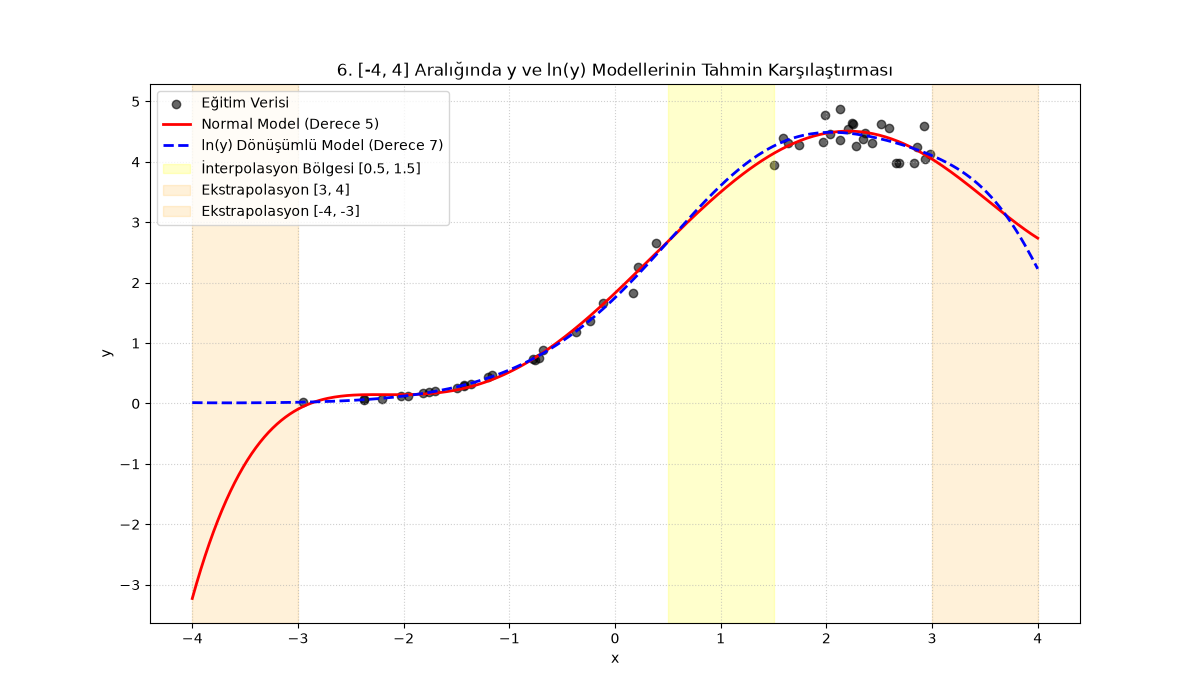
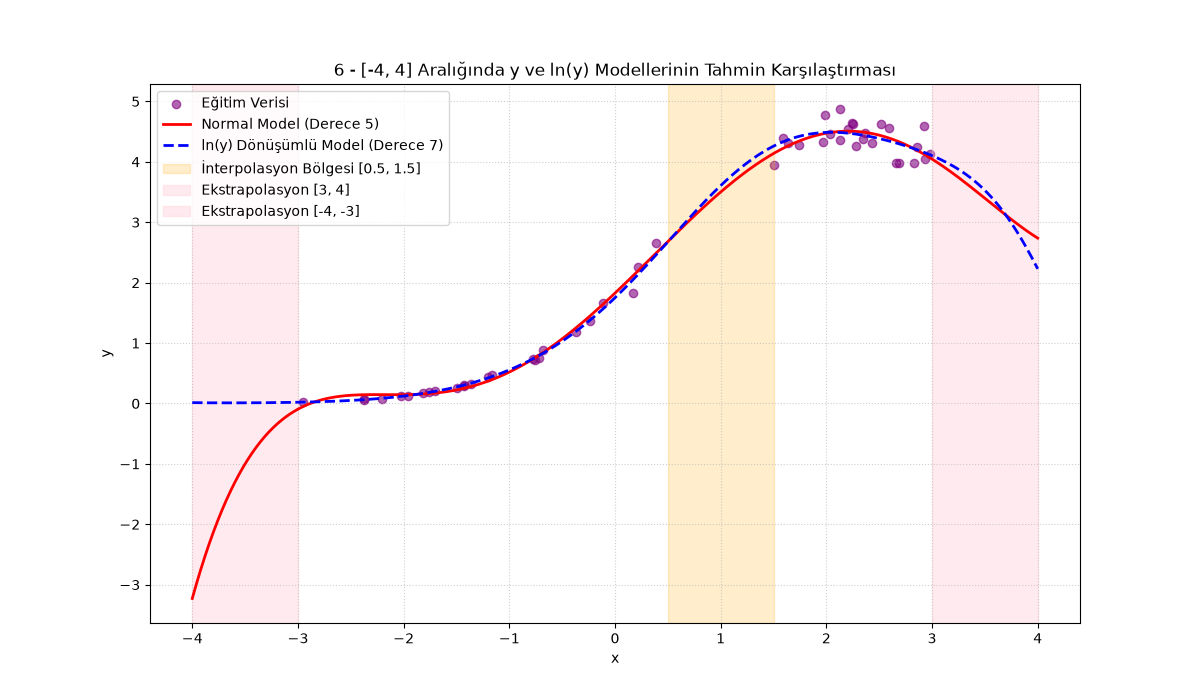
till 8th question

diff --git a/optimization.py b/optimization.py
@@ -103,48 +103,48 @@ plt.show()
 
 #5.soru
 log_y_train = np.log(y_train)
-log_train_mses = []
-log_test_mses = []
-log_models_beta = {}
+log_train_mse = []
+log_test_mse = []
+log_coef = {}
 
 for deg in degrees:
   X_train = create_design_matrix(x_train, deg)
   X_test = create_design_matrix(x_test, deg)
 
   beta_log = np.linalg.inv(X_train.T @ X_train) @ X_train.T @ log_y_train
-  log_models_beta[deg] = beta_log
+  log_coef [deg] = beta_log
 
-  y_train_pred_log = np.exp(X_train @ beta_log)
-  y_test_pred_log = np.exp(X_test @ beta_log)
+  y_train_log_pred = np.exp(X_train @ beta_log)
+  y_test_log_pred = np.exp(X_test @ beta_log)
 
-  log_train_mses.append(calculate_mse(y_train, y_train_pred_log))
-  log_test_mses.append(calculate_mse(y_test, y_test_pred_log))
+  log_train_mse.append(calculate_mse(y_train, y_train_log_pred))
+  log_test_mse.append(calculate_mse(y_test, y_test_log_pred))
 
 log_results_df = pd.DataFrame(
     {
         "Derece": list(degrees),
-        "Eğitim MSE (ln y)": log_train_mses,
-        "Test MSE (ln y)": log_test_mses,
+        "Eğitim MSE (Orijinal Ölçek)": log_train_mse,
+        "Test MSE (Orijinal Ölçek)": log_test_mse,
     }
 )
-print("\n--- 5. ln(y) Dönüşümlü MSE Tablosu ---")
+print("\n 5 - ln(y) Dönüşümlü MSE Tablosu ")
 print(log_results_df.to_string(index=False))
 
-best_deg_log = degrees[np.argmin(log_test_mses)]
-print(f"5. ln(y) için seçilen optimum derece: {best_deg_log}")
+best_deg_log = degrees[np.argmin(log_test_mse)]
+print(f"5 - ln(y) için seçilen optimum derece: {best_deg_log}")
 
 #6.soru
-print("\n--- 6. Bölgesel Davranış Analizi ve Görselleştirme ---")
+print("\n 6 - Bölgesel Davranış Analizi ve Görselleştirme")
 x_range = np.linspace(-4, 4, 400)
-X_range_matrix = create_design_matrix(x_range, best_deg)
 
+X_range_matrix = create_design_matrix(x_range, best_deg)
 y_pred_range_normal = X_range_matrix @ deg_to_coef[best_deg]
 
 X_range_matrix_log = create_design_matrix(x_range, best_deg_log)
-y_pred_range_log = np.exp(X_range_matrix_log @ log_models_beta[best_deg_log])
+y_pred_range_log = np.exp(X_range_matrix_log @ log_coef [best_deg_log])
 
 plt.figure(figsize=(12, 7))
-plt.scatter(x_train, y_train, color="black", label="Eğitim Verisi", alpha=0.6)
+plt.scatter(x_train, y_train, color="purple", label="Eğitim Verisi", alpha=0.6)
 plt.plot(
     x_range,
     y_pred_range_normal,
@@ -164,30 +164,32 @@ plt.plot(
 plt.axvspan(
     0.5,
     1.5,
-    color="yellow",
+    color="orange",
     alpha=0.2,
     label="İnterpolasyon Bölgesi [0.5, 1.5]",
 )
-plt.axvspan(3, 4, color="orange", alpha=0.15, label="Ekstrapolasyon [3, 4]")
-plt.axvspan(-4, -3, color="orange", alpha=0.15, label="Ekstrapolasyon [-4, -3]")
+plt.axvspan(3, 4, color="pink", alpha=0.30, label="Ekstrapolasyon [3, 4]")
+plt.axvspan(-4, -3, color="pink", alpha=0.30, label="Ekstrapolasyon [-4, -3]")
 
 plt.xlabel("x")
 plt.ylabel("y")
 plt.title(
-    "6. [-4, 4] Aralığında y ve ln(y) Modellerinin Tahmin Karşılaştırması"
+    "6 - [-4, 4] Aralığında y ve ln(y) Modellerinin Tahmin Karşılaştırması"
 )
 plt.legend()
 plt.grid(True, linestyle=":", alpha=0.6)
 plt.savefig("soru6_karsilastirma.png")
 plt.show()
 
-print("İnterpolasyon ve Ekstrapolasyon Yorumları:")
 print(
-    " - İnterpolasyon Bölgesi [0.5, 1.5]: Her iki model de eğitim verisinin yoğun olduğu bu aralıkta kararlı ve tutarlıdır."
+    "İnterpolasyon ve Ekstrapolasyon Yorumları: \n "
+    "- İnterpolasyon Bölgesi [0.5, 1.5]: Her iki model de eğitim verisinin"
+    " yoğun olduğu bu aralıkta kararlı ve tutarlıdır. \n"
+    "- Ekstrapolasyon Bölgeleri [3, 4] ve [-4, -3]: Veri aralığı dışı olduğundan"
+    " normal polinom model uçlarda ani salınımlar yapabilir. ln(y) modeli ise"
+    " logaritmik dönüşümün baskılayıcı etkisi sayesinde daha stabil davranabilir."
 )
-print(
-    " - Ekstrapolasyon Bölgeleri [3, 4] ve [-4, -3]: Veri aralığı dışı olduğundan normal polinom model uçlarda ani salınımlar yapabilir; ln(y) modeli ise logaritmik dönüşümün baskılayıcı etkisi sayesinde daha stabil davranabilir."
-)
+
 
 #7.soru
 def gradient_descent_scaled(X, y, lr=1e-5, epochs=3000):
@@ -198,50 +200,50 @@ def gradient_descent_scaled(X, y, lr=1e-5, epochs=3000):
   X_scaled = X.copy()
   X_scaled[:, 1:] = (X[:, 1:] - X_mean) / X_std
 
-  m, n = X_scaled.shape
-  theta = np.zeros(n)
+  n_samples, n_features= X_scaled.shape
+  beta = np.zeros(n_features)
   cost_history = []
 
   for _ in range(epochs):
-    predictions = X_scaled @ theta
+    predictions = X_scaled @ beta
     errors = predictions - y
-    cost = (1 / (2 * m)) * np.sum(errors**2)
+    cost = (1 / (2 * n_samples)) * np.sum(errors**2)
     cost_history.append(cost)
 
-    grad = (1 / m) * (X_scaled.T @ errors)
-    theta -= lr * grad
+    grad = (1 / n_samples) * (X_scaled.T @ errors)
+    beta -= lr * grad
 
-  return theta, cost_history, X_mean, X_std
+  return beta, cost_history, X_mean, X_std
 
 X_best_train = create_design_matrix(x_train, best_deg)
-theta_gd, cost_hist, x_mean, x_std = gradient_descent_scaled(
+beta_gd, cost_hist, x_mean, x_std = gradient_descent_scaled(
     X_best_train, y_train, lr=0.01, epochs=3000
 )
 
 plt.figure(figsize=(8, 4))
 plt.plot(cost_hist, color="purple")
-plt.xlabel("İterasyon (Epoch)")
+plt.xlabel("İterasyon")
 plt.ylabel("Kayıp (Cost - MSE/2)")
 plt.title(
-    f"7. Gradyan Düşümü Kayıp Eğrisi (Derece {best_deg}) - Ölçeklendirilmiş"
+    f"7 - Gradyan Düşümü Kayıp Eğrisi ({best_deg}. Derece) (Ölçeklendirilmiş)"
 )
 plt.grid(True)
 plt.savefig("soru7_kayip.png")
 plt.show()
 
-print("\n--- 7. Katsayı Karşılaştırması ---")
+print("\n 7 - Katsayı Karşılaştırması")
 print("Analitik Beta:", deg_to_coef[best_deg])
-print("Gradyan Düşümü Beta (Ölçekli):", theta_gd)
+print("Gradyan Düşümü Beta (Ölçeklendirilmiş):", beta_gd)
 
 #8.soru
 final_deg = best_deg_log
 X_pred_matrix = create_design_matrix(x_pred_new, final_deg)
-final_predictions = np.exp(X_pred_matrix @ log_models_beta[final_deg])
+final_predictions = np.exp(X_pred_matrix @ log_coef [final_deg])
 
 output_df = pd.DataFrame(
     {"id": tahmin_df.iloc[:, 0].values, "y": final_predictions}
 )
-output_df.to_csv("ogrenciNo_tahmin.csv", index=False)
+output_df.to_csv("26011603_tahmin.csv", index=False)
 print(
-    "\n8. Tahminler 'ogrenciNo_tahmin.csv' dosyasına başarıyla kaydedildi."
+    "\n 8 - Tahminler '26011603_tahmin.csv' dosyasına başarıyla kaydedilmiştir."
 )
